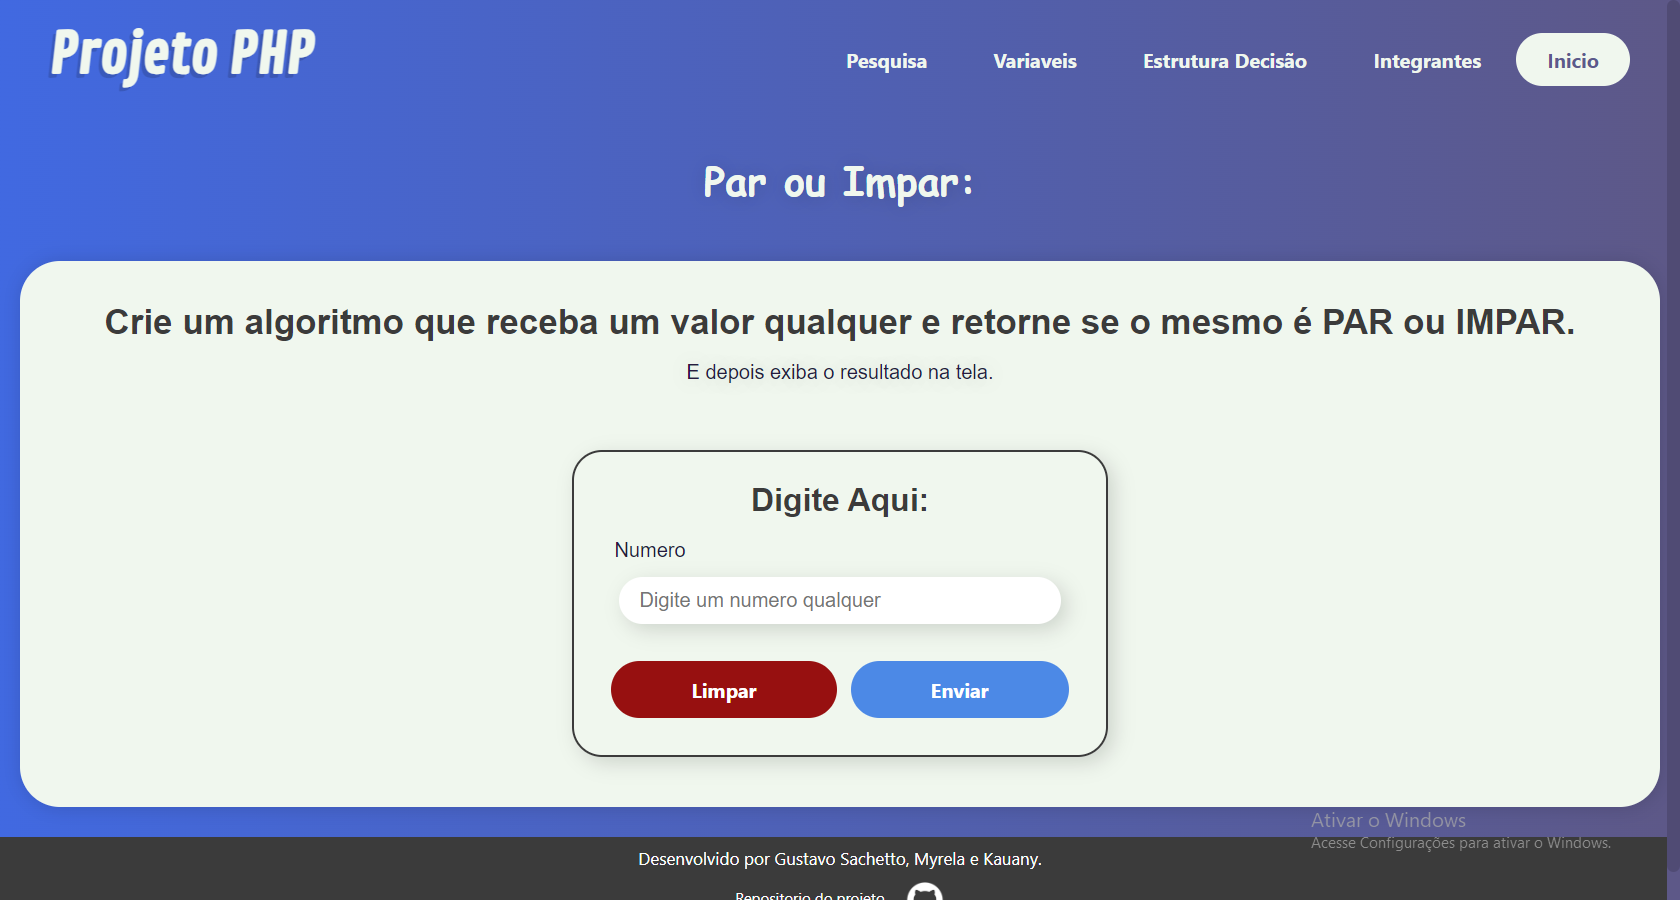
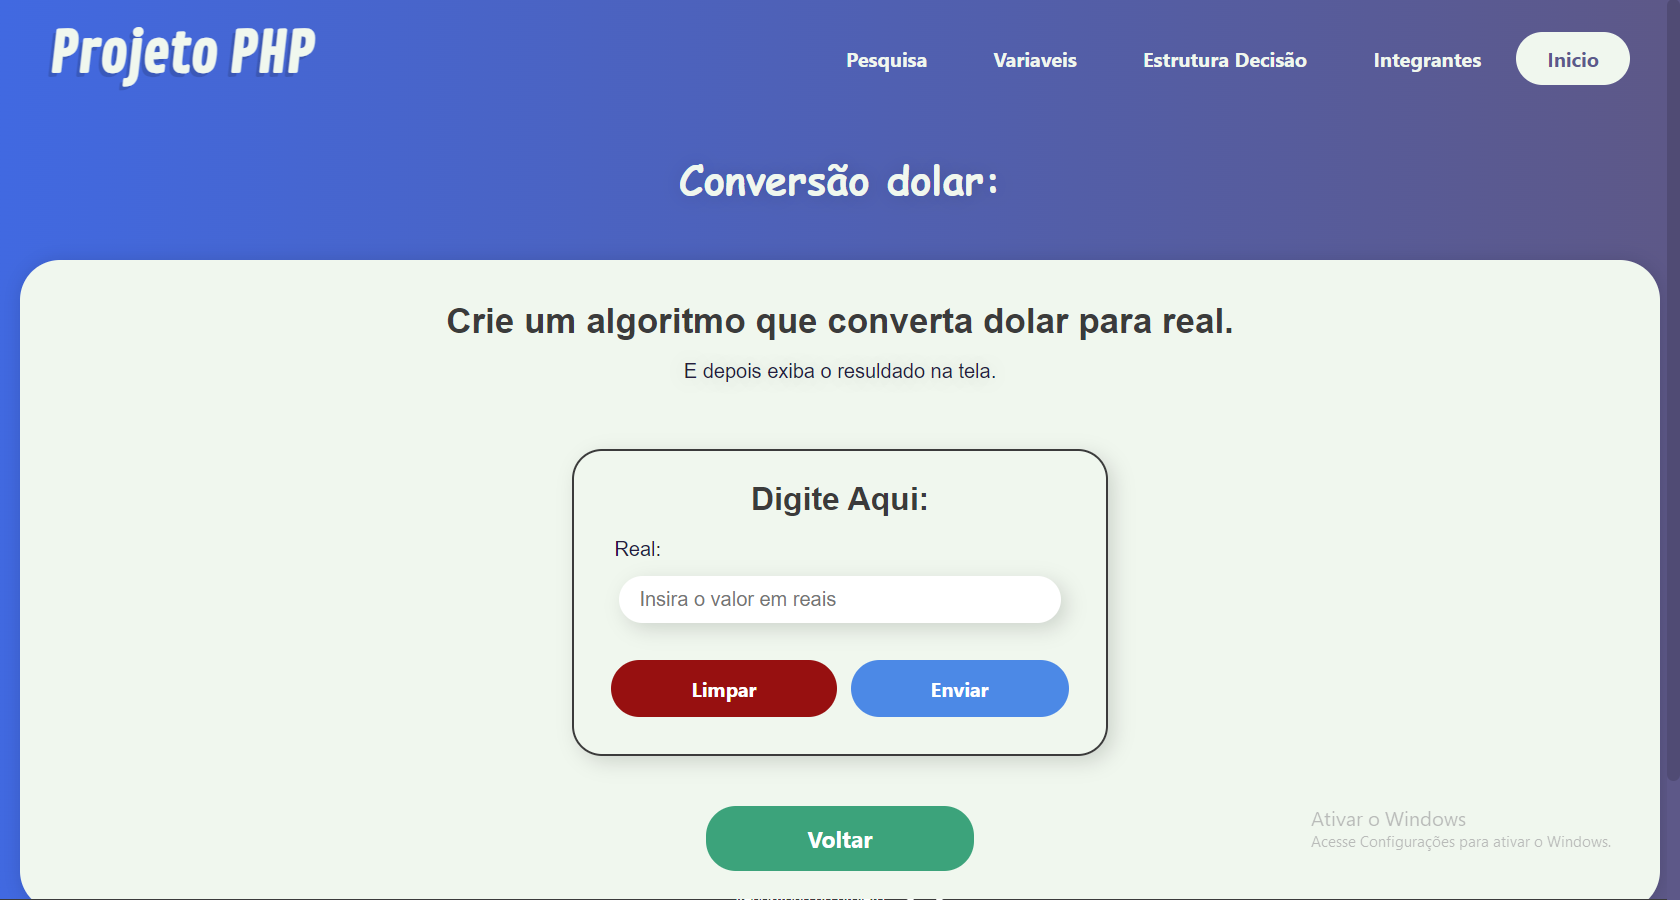
Editando atividades antigas e criando novas
Mudei muita coisa adicionei atividade 8 e 9 na área de estrutura de condição e repetição

diff --git a/view/html/estrutura.html b/view/html/estrutura.html
@@ -39,7 +39,7 @@
                         Exercicio 01
                       </button>
                       <ul class="dropdown-menu">
-                        <li><a class="dropdown-item" href="atividade/idade_qnd.html">Ano</a></li>
+                        <li><a class="dropdown-item" href="atividade/idade_qnd.html">Idade quando</a></li>
                       </ul>
                     </div> 
 
@@ -49,7 +49,7 @@
                         Exercicio 02
                       </button>
                       <ul class="dropdown-menu">
-                        <li><a class="dropdown-item" href="atividade/triangulo.html">Triangulo</a></li>
+                        <li><a class="dropdown-item" href="atividade/triangulo.html">Tipo de triangulo</a></li>
                       </ul>
                     </div> 
 
@@ -59,7 +59,7 @@
                         Exercicio 03
                       </button>
                       <ul class="dropdown-menu">
-                        <li><a class="dropdown-item" href="atividade/number_int.html">Numero Inteiro</a></li>
+                        <li><a class="dropdown-item" href="atividade/number_int.html">Estação do ano</a></li>
                       </ul>
                     </div> 
 
@@ -100,6 +100,26 @@
                         </button>
                         <ul class="dropdown-menu">
                           <li><a class="dropdown-item" href="atividade/tinta.html">Lata de tinta</a></li>
+                        </ul>
+                    </div>  
+
+                    <!-- Item 8-->
+                    <div class="btn-group">
+                        <button class="btn btn-secondary btn-lg dropdown-toggle" type="button" data-bs-toggle="dropdown" aria-expanded="false">
+                            Exercicio 08
+                        </button>
+                        <ul class="dropdown-menu">
+                          <li><a class="dropdown-item" href="atividade/intervalo.php">Intervalo de valores</a></li>
+                        </ul>
+                    </div>
+                    
+                    <!-- Item 9-->
+                    <div class="btn-group">
+                        <button class="btn btn-secondary btn-lg dropdown-toggle" type="button" data-bs-toggle="dropdown" aria-expanded="false">
+                            Exercicio 09
+                        </button>
+                        <ul class="dropdown-menu">
+                          <li><a class="dropdown-item" href="atividade/pesquisa.php">Pesquisa de opinião</a></li>
                         </ul>
                     </div>  
                 </div>

diff --git a/view/html/atividade/media.html b/view/html/atividade/media.html
@@ -37,12 +37,18 @@
                 <p class="entrada-txt">E depois exiba o resuldado na tela.</p>
                 <form action="../../../controller/media.php" method="post">
                     <fieldset>
-                        <h2>Digite Aqui:</h2>                       
+                        <h2>Digite aqui:</h2>                       
                         <label for="txtNota01">Primeira nota:</label>
                         <input type="number" name="txtNota1" id="txtNota1" step="0.1" placeholder="Digite a primeira nota" required/>
                         
                         <label for="txtNota02">Segunda nota:</label>
                         <input type="number" name="txtNota2" id="txtNota2" step="0.1" placeholder="Digite a segunda nota" required/>
+
+                        <label for="txtNota01">Terceira nota:</label>
+                        <input type="number" name="txtNota3" id="txtNota3" step="0.1" placeholder="Digite a terceira nota" required/>
+                        
+                        <label for="txtNota02">Quarta nota:</label>
+                        <input type="number" name="txtNota4" id="txtNota4" step="0.1" placeholder="Digite a quarta nota" required/>
                     </fieldset>
                     <div class="botao">
                         <button type="reset" id="limpar">Limpar</button>

diff --git a/view/html/atividade/desc_calc.html b/view/html/atividade/desc_calc.html
@@ -46,12 +46,12 @@
                 <p class="entrada-txt">E depois mostre na tela o nome, valor com total com desconto e valor total sem desconto.</p>
                 <form action="../../../controller/desc.calc.php" method="post">
                     <fieldset>
-                        <h2>Digite Aqui:</h2>                       
+                        <h2>Digite aqui:</h2>                       
                         <label for="txtName">Nome:  </label>
                         <input type="text" name="txtName" id="txtName" placeholder="Digite o nome do produto" required/>
 
-                        <label for="textVal">Valor de venda: </label>
-                        <input type="number" name="textVal" id="textVal" step="0.01" placeholder="Digite o valor de venda" required/>
+                        <label for="textVal">Valor de compra: </label>
+                        <input type="number" name="textVal" id="textVal" step="0.01" placeholder="Digite o valor de compra" required/>
 
                         <label for="textQuant">Quantidade comprada:</label>
                         <input type="number" name="textQuant" id="textQuant" placeholder="Digite a quantidade comprada" required/>

diff --git a/view/html/atividade/calc_lucro.html b/view/html/atividade/calc_lucro.html
@@ -48,9 +48,9 @@
                 <p class="entrada-txt">Exiba na tela o preço que ele pretende vender o brigadeiro e qual o lucro obtido.</p>
                 <form action="../../../controller/calc.lucro.php" method="post">
                     <fieldset>
-                        <h2>Digite Aqui:</h2>                       
-                        <label for="txtValor01">Venda brigadeiro</label>
-                        <input type="number" name="txtValor1" id="txtValor1" placeholder="Insira o preço de custo" required/>
+                        <h2>Digite aqui:</h2>                       
+                        <label for="txtValor01">Compra do brigadeiro: </label>
+                        <input type="number" name="txtValor1" id="txtValor1" step="0.01" placeholder="Insira o preço de custo" required/>
                     </fieldset>
                     <div class="botao">
                         <button type="reset" id="limpar">Limpar</button>

diff --git a/view/html/atividade/number_int.html b/view/html/atividade/number_int.html
@@ -44,9 +44,9 @@
                 <p class="entrada-txt">E depois mostre na tela a comparação com imagens.</p>
                 <form action="../../../controller/number.int.php" method="post">
                     <fieldset>
-                        <h2>Digite Aqui:</h2>                       
+                        <h2>Digite aqui:</h2>                       
                         <label for="txtNumber">Numero 1 á 12:</label>
-                        <input type="number" name="txtNumber" id="txtNumber" placeholder="Digite um numero de 1 á 12" required/>
+                        <input type="number" name="txtNumber" id="txtNumber" min="1" max="12" placeholder="Digite um numero de 1 á 12" required/>
                     </fieldset>
                     <div class="botao">
                         <button type="reset" id="limpar">Limpar</button>

diff --git a/view/html/atividade/tinta.html b/view/html/atividade/tinta.html
@@ -45,7 +45,7 @@
                 <p class="entrada-txt">E depois na exiba a quantidade de latas de tintas necessarias para pintar a parede.</p>
                 <form action="../../../controller/tinta.php" method="post">
                     <fieldset>
-                        <h2>Digite Aqui:</h2>                        
+                        <h2>Digite aqui:</h2>                        
                         <label for="txtNome">Altura:</label>
                         <input type="number" name="txtAltura" id="txtAltura" step="0.1" placeholder="Digite a altura da parede em metros" required/>                
 

diff --git a/view/html/atividade/calc.html b/view/html/atividade/calc.html
@@ -37,7 +37,7 @@
                 <p class="entrada-txt">E mostrar na tela os valores somados, subtraidos, multiplicados e divididos.</p>
                 <form action="../../../controller/calc.php" method="post">
                     <fieldset>
-                        <h2>Digite Aqui:</h2>                       
+                        <h2>Digite aqui:</h2>                       
                         <label for="txtValor01">Numero 1:</label>
                         <input type="number" name="txtValor01" id="txtValor01" step="0.01" placeholder="Digite o primeiro numero" required/>
 

diff --git a/view/html/atividade/triangulo.html b/view/html/atividade/triangulo.html
@@ -43,7 +43,7 @@
                 <p class="entrada-txt">E depois na tela os valores inseridos e o modelo do triangulo com comparação a imagem.</p>
                 <form action="../../../controller/triangulo.php" method="post">
                     <fieldset>
-                        <h2>Digite Aqui:</h2>                        
+                        <h2>Digite aqui:</h2>                        
                         <label for="txtNome">Lado 1: </label>
                         <input type="number" name="txtA" placeholder="Digite o primeiro lado" required/>                
 

diff --git a/view/html/atividade/fumante.html b/view/html/atividade/fumante.html
@@ -43,7 +43,7 @@
                 <p class="entrada-txt">E depois mostre na tela o Tempo de vida perdido em dias</p>
                 <form action="../../../controller/fumante.php" method="post">
                     <fieldset>
-                        <h2>Digite Aqui:</h2>                       
+                        <h2>Digite aqui:</h2>                       
                         <label for="txt01">Cigarros:</label>
                         <input type="number" name="txtCQ" id="txtCQ" placeholder="Digite a quantidade fumado por dia" required/>
                 

diff --git a/view/html/atividade/par_impar.html b/view/html/atividade/par_impar.html
@@ -37,7 +37,7 @@
                 <p class="entrada-txt">E depois exiba o resultado na tela.</p>
                 <form action="../../../controller/par.impar.php" method="post">
                     <fieldset>
-                        <h2>Digite Aqui:</h2>                       
+                        <h2>Digite aqui:</h2>                       
                         <label for="txtNumber">Numero</label>
                         <input type="number" name="txtNumber" id="txtNumber" placeholder="Digite um numero qualquer" required/>
                     </fieldset>

diff --git a/index.html b/index.html
@@ -31,7 +31,7 @@
                 <h2><span id="text-index"></span><span class="barrinha">|</span></h2>
                 <div class="alinhando"><img src="view/img/seta.png" class="seta"></div>
                 <div class="exemplos">
-                    <a id="exemplo1" href="view/html/atividade/par_impar.html">
+                    <a id="exemplo1" href="view/html/atividade/dolar.html">
                         <p id="veja1">Veja na pratica</p>
                         <img id="ex1" class="ex" src="view/img/exemplo-um.png" alt="Exemplo um">
                     </a>

diff --git a/view/html/atividade/alfabeto.html b/view/html/atividade/alfabeto.html
@@ -43,7 +43,7 @@
                 <p class="entrada-txt">E depois mostre na tela a letra digitada e a comparação realizada, com imagens.</p>
                 <form action="../../../controller/alfabeto.php" method="post">
                     <fieldset>
-                        <h2>Digite Aqui:</h2>
+                        <h2>Digite aqui:</h2>
                         <label for="txtLetra">Letra:</label>
                         <input type="text" name="txtLetra" id="txtLetra" placeholder="Digite uma letra do alfabeto" required/>
                     </fieldset>
